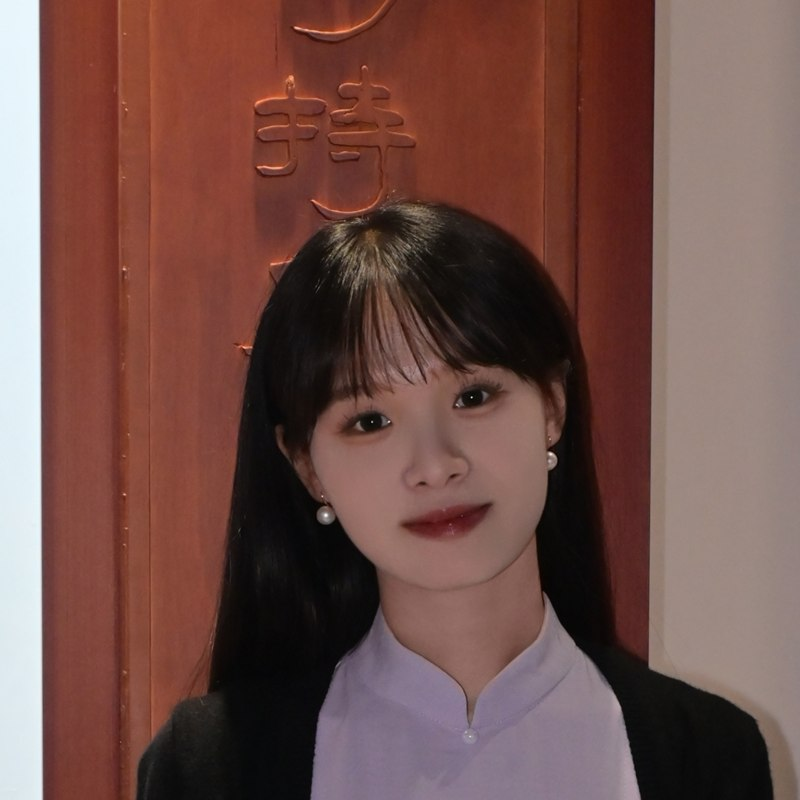
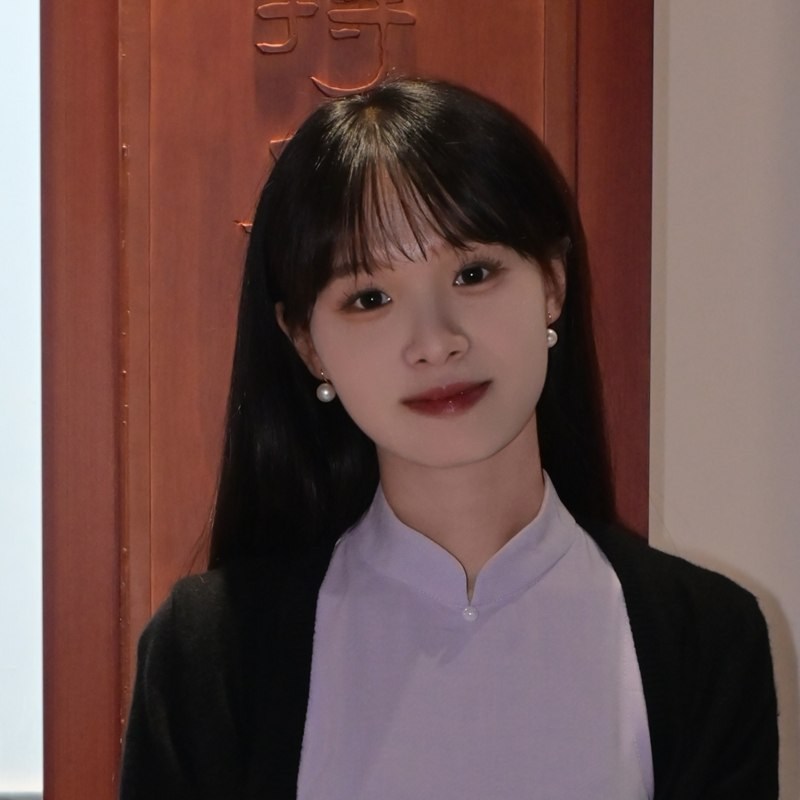
Show member photos on profile pages

diff --git a/members/曹梦雷.html b/members/曹梦雷.html
@@ -60,6 +60,7 @@
       margin-bottom: 18px;
       border: 3px solid rgba(0,0,0,0.06);
     }
+    .profile-avatar--photo { object-fit: cover; border-color: var(--teal-100); }
     .profile-name {
       font-family: var(--serif);
       font-size: 32px; font-weight: 600;
@@ -99,6 +100,15 @@
       padding: 2rem;
       text-align: center;
     }
+    .profile-photo {
+      display: block;
+      width: 100%;
+      max-width: 620px;
+      height: auto;
+      margin: 0 auto;
+      border: 1px solid var(--border);
+      border-radius: var(--radius);
+    }
 
     footer {
       padding: 2rem;
@@ -119,12 +129,17 @@
 
   <div class="container">
     <header class="profile-head">
-      <div class="profile-avatar" style="background:#EAF3DE; color:#3B6D11;">曹</div>
+      <img class="profile-avatar profile-avatar--photo" src="../avatars/曹梦雷.jpg" alt="曹梦雷头像" />
       <h1 class="profile-name">曹梦雷</h1>
       <span class="profile-grade">硕士生（三年级）</span>
     </header>
 
     <div class="profile-body">
+      <section class="profile-section">
+        <div class="section-label">个人照片</div>
+        <img class="profile-photo" src="曹梦雷.jpg" alt="曹梦雷" loading="lazy" />
+      </section>
+
       <section class="profile-section">
         <div class="section-label">个人简介</div>
         <div class="placeholder">简介内容待补充</div>

diff --git a/members/闫璐瑶.html b/members/闫璐瑶.html
@@ -60,6 +60,7 @@
       margin-bottom: 18px;
       border: 3px solid rgba(0,0,0,0.06);
     }
+    .profile-avatar--photo { object-fit: cover; border-color: var(--teal-100); }
     .profile-name {
       font-family: var(--serif);
       font-size: 32px; font-weight: 600;
@@ -99,6 +100,15 @@
       padding: 2rem;
       text-align: center;
     }
+    .profile-photo {
+      display: block;
+      width: 100%;
+      max-width: 620px;
+      height: auto;
+      margin: 0 auto;
+      border: 1px solid var(--border);
+      border-radius: var(--radius);
+    }
 
     footer {
       padding: 2rem;
@@ -119,12 +129,17 @@
 
   <div class="container">
     <header class="profile-head">
-      <div class="profile-avatar" style="background:#FAEEDA; color:#854F0B;">闫</div>
+      <img class="profile-avatar profile-avatar--photo" src="../avatars/闫璐瑶.jpg" alt="闫璐瑶头像" />
       <h1 class="profile-name">闫璐瑶</h1>
       <span class="profile-grade">硕士生（一年级）</span>
     </header>
 
     <div class="profile-body">
+      <section class="profile-section">
+        <div class="section-label">个人照片</div>
+        <img class="profile-photo" src="闫璐瑶.jpg" alt="闫璐瑶" loading="lazy" />
+      </section>
+
       <section class="profile-section">
         <div class="section-label">个人简介</div>
         <div class="placeholder">简介内容待补充</div>
